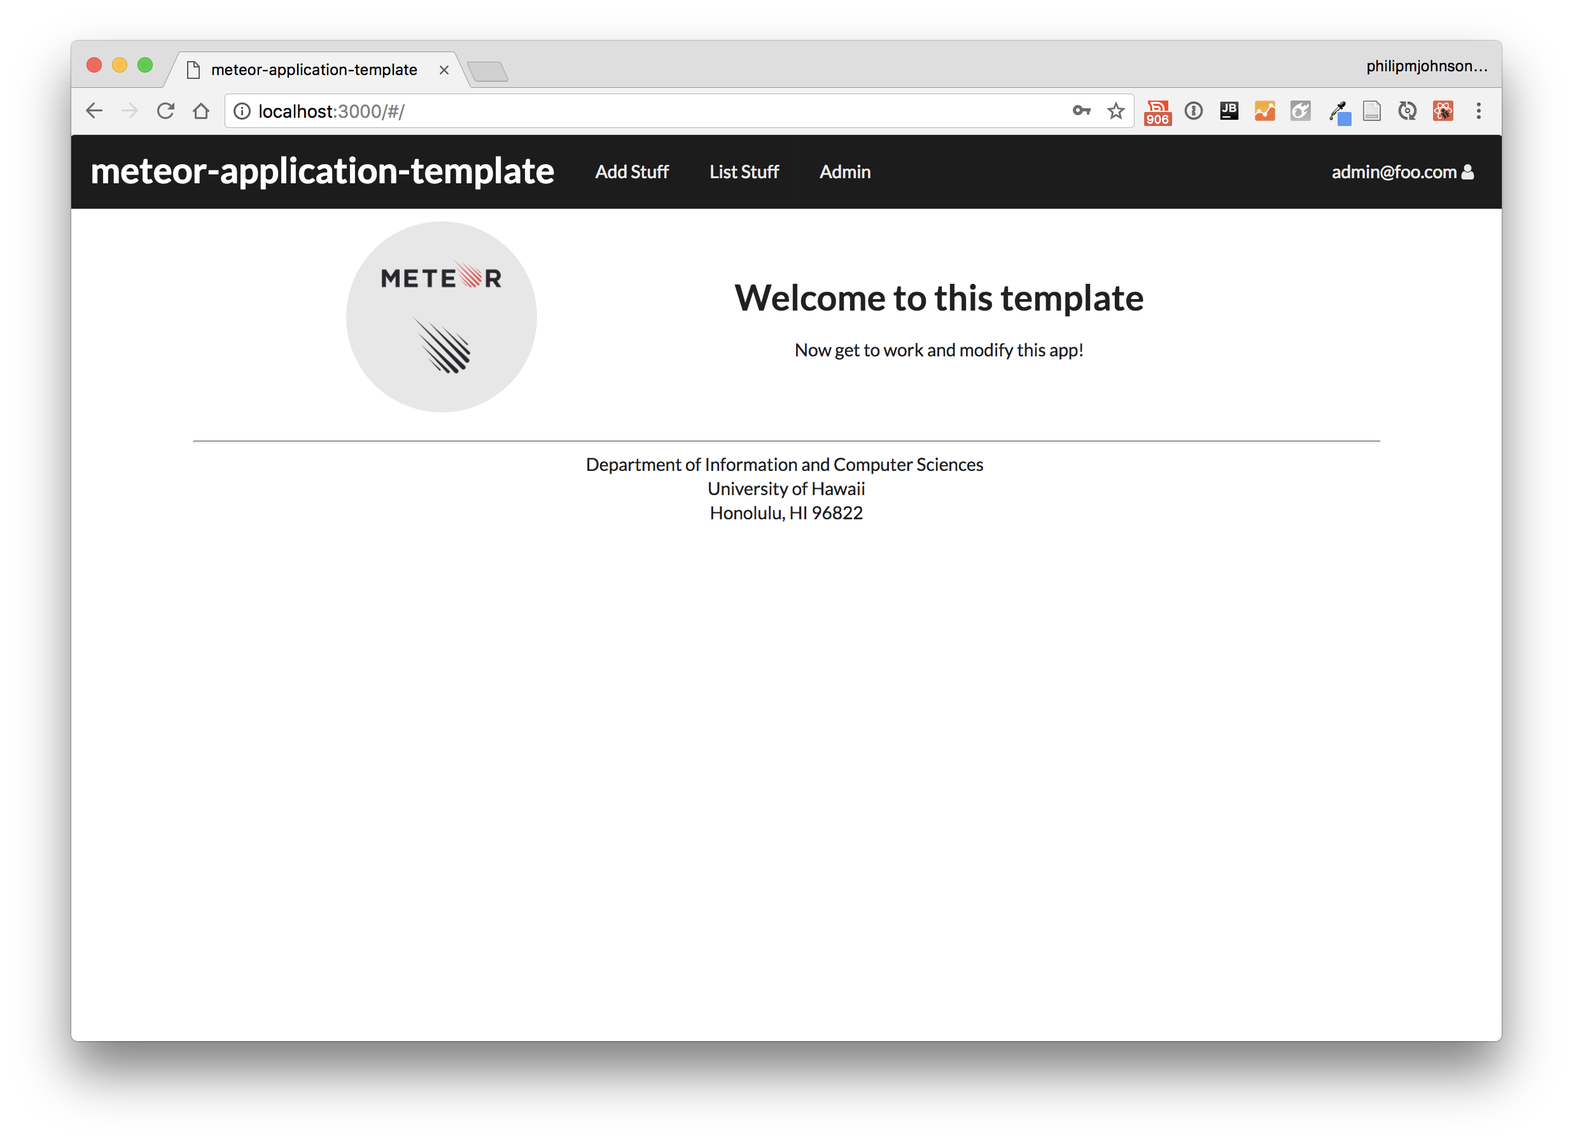
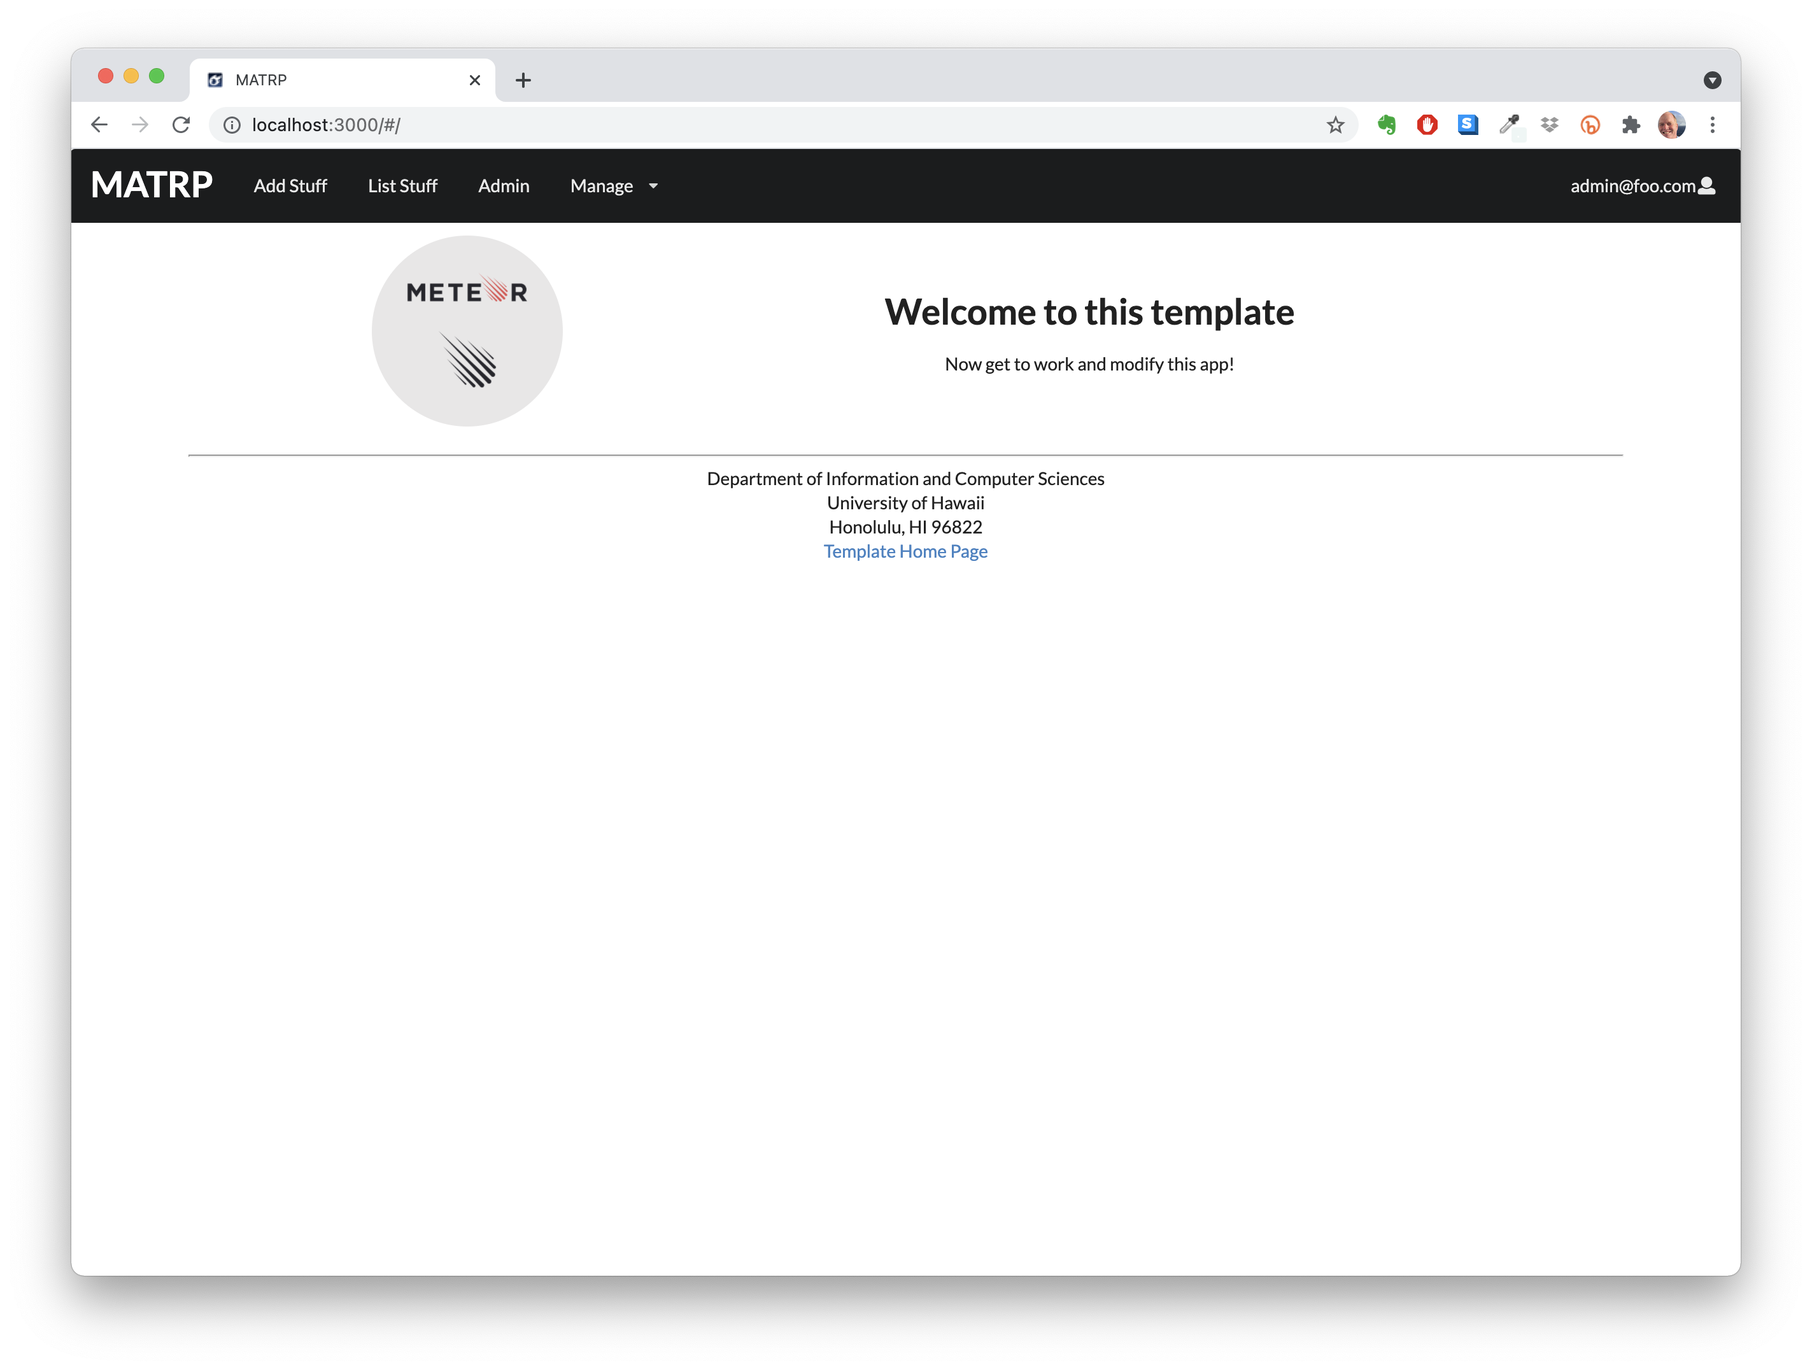
Checkpoint
Working on documentation

Changed region(s): [[0.0311, 0.0312, 0.9656, 0.9354], [0.4672, 0.2183, 0.7476, 0.3118], [0.3738, 0.343, 0.623, 0.4677]]

diff --git a/index.md b/index.md
@@ -1,11 +1,7 @@
-## MATRP
 
-A template for quickly starting Meteor application development. An "industrial strength" [meteor-application-template-react](https://ics-software-engineering.github.io/meteor-application-template-react/).
+![](https://raw.githubusercontent.com/ics-software-engineering/matrp/master/doc/landing-page.png)
 
-
-![](https://raw.githubusercontent.com/ics-software-engineering/meteor-application-template-react/master/doc/landing-page.png)
-
-Meteor-application-template-react is a sample Meteor 2.3 application that illustrates:
+MATRP, an extension of [meteor-application-template-react](https://ics-software-engineering.github.io/meteor-application-template-react/), is a sample Meteor 2.3 application that illustrates:
 
   * A standard directory layout using 'imports/' as recommended in the [Meteor Guide](https://guide.meteor.com/structure.html)
   * [Semantic UI React](https://react.semantic-ui.com/) for user interface.
@@ -15,21 +11,17 @@ Meteor-application-template-react is a sample Meteor 2.3 application that illust
   * Initialization of users and data from a settings file.
   * Alerts regarding success or failure of DB updates using [Sweet Alert](https://sweetalert.js.org/).
   * Quality assurance using [ESLint](http://eslint.org) with packages to partially enforce the [Meteor Coding Standards](https://guide.meteor.com/code-style.html) and the [AirBnB Javascript Style Guide](https://github.com/airbnb/javascript).
+  * Unit testing for the Mongo collections.
+  * Integration testing for the Meteor methods.
+  * Acceptance testing using [TestCafe](https://testcafe.io/).
 
 The goal of this template is to help you get quickly started doing Meteor development by providing a reasonable directory structure for development and deployment, a set of common extensions to the core framework, and boilerplate code to implement basic page display, navigation, forms, roles, and collection manipulation.
-
-To keep this codebase simple and small, some important capabilities are intentionally excluded from this template:
-
-  * Testing.
-  * Security (meteor-application-template-react enables the insecure packages)
-
-Examples of the these capabilities will be provided elsewhere.
 
 ## Installation
 
 First, [install Meteor](https://www.meteor.com/install).
 
-Second, go to [https://github.com/ics-software-engineering/meteor-application-template-react](https://github.com/ics-software-engineering/meteor-application-template-react), and click the "Use this template" button. Complete the dialog box to create a new repository that you own that is initialized with this template's files.
+Second, go to [https://github.com/ics-software-engineering/matrp](https://github.com/ics-software-engineering/matrp), and click the "Use this template" button. Complete the dialog box to create a new repository that you own that is initialized with this template's files.
 
 Third, go to your newly created repository, and click the "Clone or download" button to download your new GitHub repo to your local file system.  Using [GitHub Desktop](https://desktop.github.com/) is a great choice if you use MacOS or Windows.
 
@@ -41,7 +33,7 @@ $ meteor npm install
 
 ## Running the system
 
-Once the libraries are installed, you can run the application by invoking the "start" script in the [package.json file](https://github.com/ics-software-engineering/meteor-application-template-react/blob/master/app/package.json):
+Once the libraries are installed, you can run the application by invoking the "start" script in the [package.json file](https://github.com/ics-software-engineering/matrp/blob/master/app/package.json):
 
 ```
 $ meteor npm run start
@@ -50,63 +42,36 @@ $ meteor npm run start
 The first time you run the app, it will create some default users and data. Here is the output:
 
 ```
-meteor npm run start
+⋊> ~/G/m/app on master ⨯ meteor npm run start
 
-> meteor-application-template-react@ start /Users/philipjohnson/github/ics-software-engineering/meteor-application-template-react/app
-> meteor --no-release-check --settings ../config/settings.development.json
 
-[[[[[ ~/github/ics-software-engineering/meteor-application-template-react/app ]]]]]
+> meteor-application-template-react-production@1.0.3 start /Users/carletonmoore/GitHub/matrp/app
+> meteor --no-release-check --exclude-archs web.browser.legacy,web.cordova --settings ../config/settings.development.json
 
-=> Started proxy.
-=> Started MongoDB.
-I20180227-13:33:02.716(-10)? Creating the default user(s)
-I20180227-13:33:02.742(-10)?   Creating user admin@foo.com.
-I20180227-13:33:02.743(-10)?   Creating user john@foo.com.
-I20180227-13:33:02.743(-10)? Creating default data.
-I20180227-13:33:02.743(-10)?   Adding: Basket (john@foo.com)
-I20180227-13:33:02.743(-10)?   Adding: Bicycle (john@foo.com)
-I20180227-13:33:02.743(-10)?   Adding: Banana (admin@foo.com)
-I20180227-13:33:02.744(-10)?   Adding: Boogie Board (admin@foo.com)
+[[[[[ ~/GitHub/matrp/app ]]]]]                
+
+=> Started proxy.                             
+=> Started MongoDB.                           
+I20210801-10:48:51.367(-10)? Creating the default user(s)
+I20210801-10:48:51.504(-10)?   Creating user admin@foo.com with role ADMIN.
+I20210801-10:48:51.537(-10)? Defining ADMIN admin@foo.com with password changeme
+I20210801-10:48:51.544(-10)?   Creating user john@foo.com with role USER.
+I20210801-10:48:51.704(-10)? Defining USER john@foo.com with password changeme
+I20210801-10:48:51.710(-10)? Creating default data.
+I20210801-10:48:51.710(-10)?   Adding: Basket (john@foo.com)
+I20210801-10:48:51.747(-10)?   Adding: Bicycle (john@foo.com)
+I20210801-10:48:51.753(-10)?   Adding: Banana (admin@foo.com)
+I20210801-10:48:51.756(-10)?   Adding: Boogie Board (admin@foo.com)
+I20210801-10:48:51.864(-10)? Monti APM: completed instrumenting the app
 => Started your app.
 
 => App running at: http://localhost:3000/
 ```
 
 
-### Note regarding "bcrypt warning":
-
-You will also get the following message when you run this application:
-
-```
-Note: you are using a pure-JavaScript implementation of bcrypt.
-While this implementation will work correctly, it is known to be
-approximately three times slower than the native implementation.
-In order to use the native implementation instead, run
-
-  meteor npm install --save bcrypt
-
-in the root directory of your application.
-```
-
-On some operating systems (particularly Windows), installing bcrypt is much more difficult than implied by the above message. Bcrypt is only used in Meteor for password checking, so the performance implications are negligible until your site has very high traffic. You can safely ignore this warning without any problems during initial stages of development.
-
-### Note regarding "MongoError: not master and slaveOk=false":
-
-Intermittently, you may see the following error message in the console when the system starts up:
-
-```
-MongoError: not master and slaveOk=false
-     at queryCallback (/Users/philipjohnson/.meteor/packages/npm-mongo/.3.1.1.1mmptof.qcqo++os+web.browser+web.browser.legacy+web.cordova/npm/node_modules/mongodb-core/lib/cursor.js:248:25)
-     at /Users/philipjohnson/.meteor/packages/npm-mongo/.3.1.1.1mmptof.qcqo++os+web.browser+web.browser.legacy+web.cordova/npm/node_modules/mongodb-core/lib/connection/pool.js:532:18
-     at _combinedTickCallback (internal/process/next_tick.js:131:7)
-     at process._tickDomainCallback (internal/process/next_tick.js:218:9)
-```
-
-While irritating, this message appears to be harmless and [possibly related to a race condition between the development instance of Mongo and Meteor](https://github.com/meteor/meteor/issues/9026#issuecomment-330850366). By harmless, I mean that in most cases, the console goes on to display `App running at: http://localhost:3000/` and no problems occur during run time.
-
 ### Viewing the running app
 
-If all goes well, the template application will appear at [http://localhost:3000](http://localhost:3000).  You can login using the credentials in [settings.development.json](https://github.com/ics-software-engineering/meteor-application-template-react/blob/master/config/settings.development.json), or else register a new account.
+If all goes well, the template application will appear at [http://localhost:3000](http://localhost:3000).  You can login using the credentials in [settings.development.json](https://github.com/ics-software-engineering/matrp/blob/master/config/settings.development.json), or else register a new account.
 
 ### ESLint
 
@@ -126,6 +91,7 @@ The top-level directory structure is:
 
 ```
 app/        # holds the Meteor application sources
+checklists/ # holds review checklists
 config/     # holds configuration files, such as settings.development.json
 doc/        # holds developer documentation, user guides, etc.
 .gitignore  # don't commit IntelliJ project files, node_modules, and settings.production.json
@@ -136,20 +102,29 @@ This structure separates documentation files (such as screenshots) and configura
 The app/ directory has this structure:
 
 ```
+.deploy/         # Meteor Up files for deploying the application
+.meteor/         # Meteor files
+
 client/
   main.html      # The boilerplate HTML with a "root" div to be manipulated by React.
   main.js        # import startup files.
+  style.css      # local styles.
 
 imports/
-  api/           # Define collections
-    stuff/       # The Stuffs collection definition
+  api/           # Define collections.
+    base/        # The BaseCollection class. Wraps the Mongo collections.
+    matrp/       # Singleton instance holding all the collections.
+    role/        # The defined roles in this application.
+    stuff/       # The Stuffs collection definition.
+    user/        # The different profile collections, Admin and User.
+    utilities/   # Utility function(s)
   startup/       # Define code to run when system starts up (client-only, server-only, both)
     client/
     server/
   ui/
+    components/  # Contains page elements, some of which could appear on multiple pages.
     layouts/     # Contains top-level layout (<App> component).
     pages/       # Contains components for each page.
-    components/  # Contains page elements, some of which could appear on multiple pages.
 
 node_modules/    # managed by npm
 
@@ -157,6 +132,8 @@ public/          # static assets (like images) can go here.
 
 server/
    main.js       # import the server-side js files.
+   
+tests/           # TestCafe acceptance tests.
 ```
 
 ### Import conventions
@@ -173,7 +150,7 @@ By default, each user only sees the Stuff that they have created.  However, the 
 
 When you retrieve the app at http://localhost:3000, this is what should be displayed:
 
-![](https://raw.githubusercontent.com/ics-software-engineering/meteor-application-template-react/master/doc/landing-page.png)
+![](https://raw.githubusercontent.com/ics-software-engineering/matrp/master/doc/landing-page.png)
 
 The next step is to use the Login menu to either Login to an existing account or register a new account.
 
@@ -181,20 +158,20 @@ The next step is to use the Login menu to either Login to an existing account or
 
 Clicking on the Login link, then on the Sign In menu item displays this page:
 
-![](https://raw.githubusercontent.com/ics-software-engineering/meteor-application-template-react/master/doc/signin-page.png)
+![](https://raw.githubusercontent.com/ics-software-engineering/matrp/master/doc/signin-page.png)
 
 #### Register page
 
 Alternatively, clicking on the Login link, then on the Sign Up menu item displays this page:
 
-![](https://raw.githubusercontent.com/ics-software-engineering/meteor-application-template-react/master/doc/register-page.png)
+![](https://raw.githubusercontent.com/ics-software-engineering/matrp/master/doc/register-page.png)
 
 
 #### Landing (after Login) page, non-Admin user
 
 Once you log in (either to an existing account or by creating a new one), the navbar changes as follows:
 
-![](https://raw.githubusercontent.com/ics-software-engineering/meteor-application-template-react/master/doc/landing-after-login-page.png)
+![](https://raw.githubusercontent.com/ics-software-engineering/matrp/master/doc/landing-after-login-page.png)
 
 You can now add new Stuff documents, and list the Stuff you have created. Note you cannot see any Stuff created by other users.
 
@@ -202,13 +179,13 @@ You can now add new Stuff documents, and list the Stuff you have created. Note y
 
 After logging in, here is the page that allows you to add new Stuff:
 
-![](https://raw.githubusercontent.com/ics-software-engineering/meteor-application-template-react/master/doc/add-stuff-page.png)
+![](https://raw.githubusercontent.com/ics-software-engineering/matrp/master/doc/add-stuff-page.png)
 
 #### List Stuff page
 
 After logging in, here is the page that allows you to list all the Stuff you have created:
 
-![](https://raw.githubusercontent.com/ics-software-engineering/meteor-application-template-react/master/doc/list-stuff-page.png)
+![](https://raw.githubusercontent.com/ics-software-engineering/matrp/master/doc/list-stuff-page.png)
 
 You click the "Edit" link to go to the Edit Stuff page, shown next.
 
@@ -216,29 +193,49 @@ You click the "Edit" link to go to the Edit Stuff page, shown next.
 
 After clicking on the "Edit" link associated with an item, this page displays that allows you to change and save it:
 
-![](https://raw.githubusercontent.com/ics-software-engineering/meteor-application-template-react/master/doc/edit-stuff-page.png)
+![](https://raw.githubusercontent.com/ics-software-engineering/matrp/master/doc/edit-stuff-page.png)
 
 #### Landing (after Login), Admin user
 
 You can define an "admin" user in the settings.json file. This user, after logging in, gets a special entry in the navbar:
 
-![](https://raw.githubusercontent.com/ics-software-engineering/meteor-application-template-react/master/doc/admin-landing-page.png)
+![](https://raw.githubusercontent.com/ics-software-engineering/matrp/master/doc/admin-landing-page.png)
 
 #### Admin page (list all users stuff)
 
 To provide a simple example of a "super power" for Admin users, the Admin page lists all of the Stuff by all of the users:
 
-![](https://raw.githubusercontent.com/ics-software-engineering/meteor-application-template-react/master/doc/admin-list-stuff-page.png)
+![](https://raw.githubusercontent.com/ics-software-engineering/matrp/master/doc/admin-list-stuff-page.png)
 
 Note that non-admin users cannot get to this page, even if they type in the URL by hand.
 
+#### Admin Manage database page
+
+This page supports dumping and loading all the collections' data.
+
+![](https://raw.githubusercontent.com/ics-software-engineering/matrp/master/doc/admin-manage-database-page.png)
+
 ### Collections
 
-The application implements a single Collection called "Stuffs". Each Stuffs document has the following fields: name, quantity, condition, and username.
+The application implements several Collections: Stuffs, AdminProfiles, and UserProfiles. We also wrap the `Meteor.users` collection to manage the creation of Meteor users. All the collection are extensions of `BaseCollection`.
 
-The Stuffs collection is defined in [imports/api/stuff/stuff.js](https://github.com/ics-software-engineering/meteor-application-template-react/blob/master/app/imports/api/stuff/stuff.js).
+#### BaseCollection
 
-The Stuffs collection is initialized in [imports/startup/server/Mongo.js](https://github.com/ics-software-engineering/meteor-application-template-react/blob/master/app/imports/startup/server/Mongo.js).
+The BaseCollection class wraps the Mongo.collection. It defines several methods.
+
+#### Stuffs
+Each Stuffs document has the following fields: name, quantity, condition, and username.
+
+The Stuffs collection is defined in [imports/api/stuff/StuffCollection.js](https://github.com/ics-software-engineering/matrp/blob/master/app/imports/api/stuff/StuffCollection.js).
+
+The Stuffs collection is initialized in [imports/startup/server/Mongo.js](https://github.com/ics-software-engineering/matrp/blob/master/app/imports/startup/server/Mongo.js).
+
+To support recording additional information about users in the application, we've implemented two additional collections. 
+
+#### AdminProfiles
+Each AdminProfiles document has the following fields: email, firstName, lastName, role, and userID. The `userID` field holds the `Meteor.userID`. 
+
+The AdminProfiles collections is defined in [imports/api/user/AdminProfileCollection.js](https://github.com/ics-software-engineering/matrp/blob/master/app/imports/api/user/AdminProfileCollection.js).
 
 ### CSS
 
@@ -248,14 +245,14 @@ The application uses the [React implementation of Semantic UI](http://react.sema
 
 For display and navigation among its four pages, the application uses [React Router](https://reacttraining.com/react-router/).
 
-Routing is defined in [imports/ui/layouts/App.jsx](https://github.com/ics-software-engineering/meteor-application-template-react/blob/master/app/imports/ui/layouts/App.jsx).
+Routing is defined in [imports/ui/layouts/App.jsx](https://github.com/ics-software-engineering/matrp/blob/master/app/imports/ui/layouts/App.jsx).
 
 
 ### Authentication
 
 For authentication, the application uses the Meteor accounts package.
 
-When the application is run for the first time, a settings file (such as [config/settings.development.json](https://github.com/ics-software-engineering/meteor-application-template-react/blob/master/config/settings.development.json)) should be passed to Meteor. That will lead to a default account being created through the code in [imports/startup/server/accounts.js](https://github.com/ics-software-engineering/meteor-application-template-react/blob/master/app/imports/startup/server/accounts.js).
+When the application is run for the first time, a settings file (such as [config/settings.development.json](https://github.com/ics-software-engineering/matrp/blob/master/config/settings.development.json)) should be passed to Meteor. That will lead to a default account being created through the code in [imports/startup/server/accounts.js](https://github.com/ics-software-engineering/matrp/blob/master/app/imports/startup/server/accounts.js).
 
 The application allows users to register and create new accounts at any time.
 
@@ -265,27 +262,36 @@ Only logged in users can manipulate Stuff documents (but any registered user can
 
 ### Configuration
 
-The [config](https://github.com/ics-software-engineering/meteor-application-template-react/tree/master/config) directory is intended to hold settings files.  The repository contains one file: [config/settings.development.json](https://github.com/ics-software-engineering/meteor-application-template-react/blob/master/config/settings.development.json).
+The [config](https://github.com/ics-software-engineering/matrp/tree/master/config) directory is intended to hold settings files.  The repository contains one file: [config/settings.development.json](https://github.com/ics-software-engineering/matrp/blob/master/config/settings.development.json).
 
-The [.gitignore](https://github.com/ics-software-engineering/meteor-application-template-react/blob/master/.gitignore) file prevents a file named settings.production.json from being committed to the repository. So, if you are deploying the application, you can put settings in a file named settings.production.json and it will not be committed.
+The [.gitignore](https://github.com/ics-software-engineering/matrp/blob/master/.gitignore) file prevents a file named settings.production.json from being committed to the repository. So, if you are deploying the application, you can put settings in a file named settings.production.json and it will not be committed.
 
 ### Quality Assurance
 
 #### ESLint
 
-The application includes a [.eslintrc](https://github.com/ics-software-engineering/meteor-application-template-react/blob/master/app/.eslintrc) file to define the coding style adhered to in this application. You can invoke ESLint from the command line as follows:
+The application includes a [.eslintrc](https://github.com/ics-software-engineering/matrp/blob/master/app/.eslintrc) file to define the coding style adhered to in this application. You can invoke ESLint from the command line as follows:
 
 ```
-[~/meteor-application-template-react/app]-> meteor npm run lint
+⋊> ~/G/m/app on master ⨯ meteor npm run lint
 
-> meteor-application-template-react@ lint /Users/philipjohnson/meteor-application-template-react/app
-> eslint --quiet ./imports
+
+> meteor-application-template-react-production@1.0.3 lint /Users/carletonmoore/GitHub/matrp/app
+> eslint --quiet --fix --ext .jsx --ext .js ./imports
+
 ```
 
 ESLint should run without generating any errors.
 
 It's significantly easier to do development with ESLint integrated directly into your IDE (such as IntelliJ).
 
+#### Unit tests
+
+#### Integration tests
+
+#### Acceptance tests
+
+#### Running all the tests
 ## Screencasts
 
 For more information about this system, please watch one or more of the following screencasts. Note that the current source code might differ slightly from the code in these screencasts, but the changes should be very minor.
